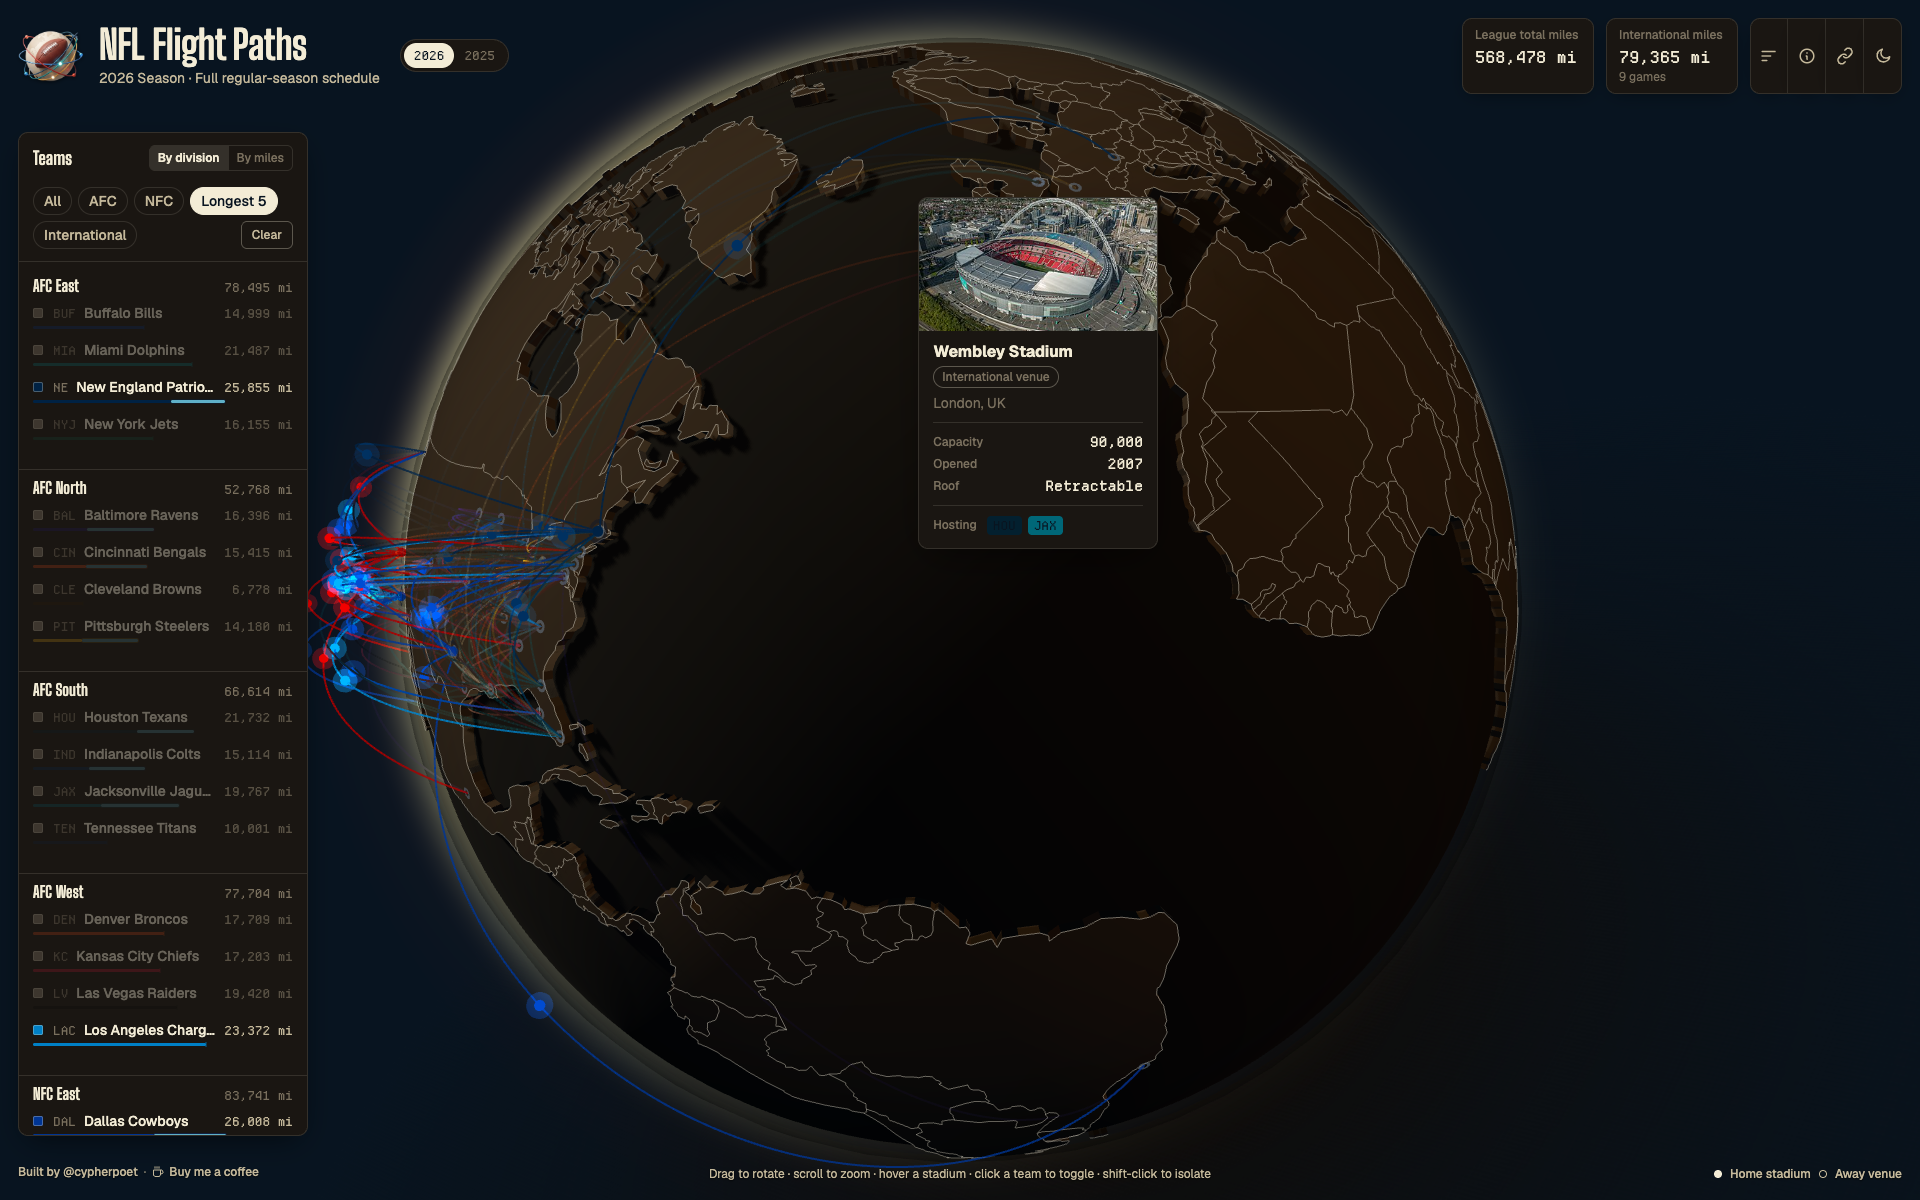
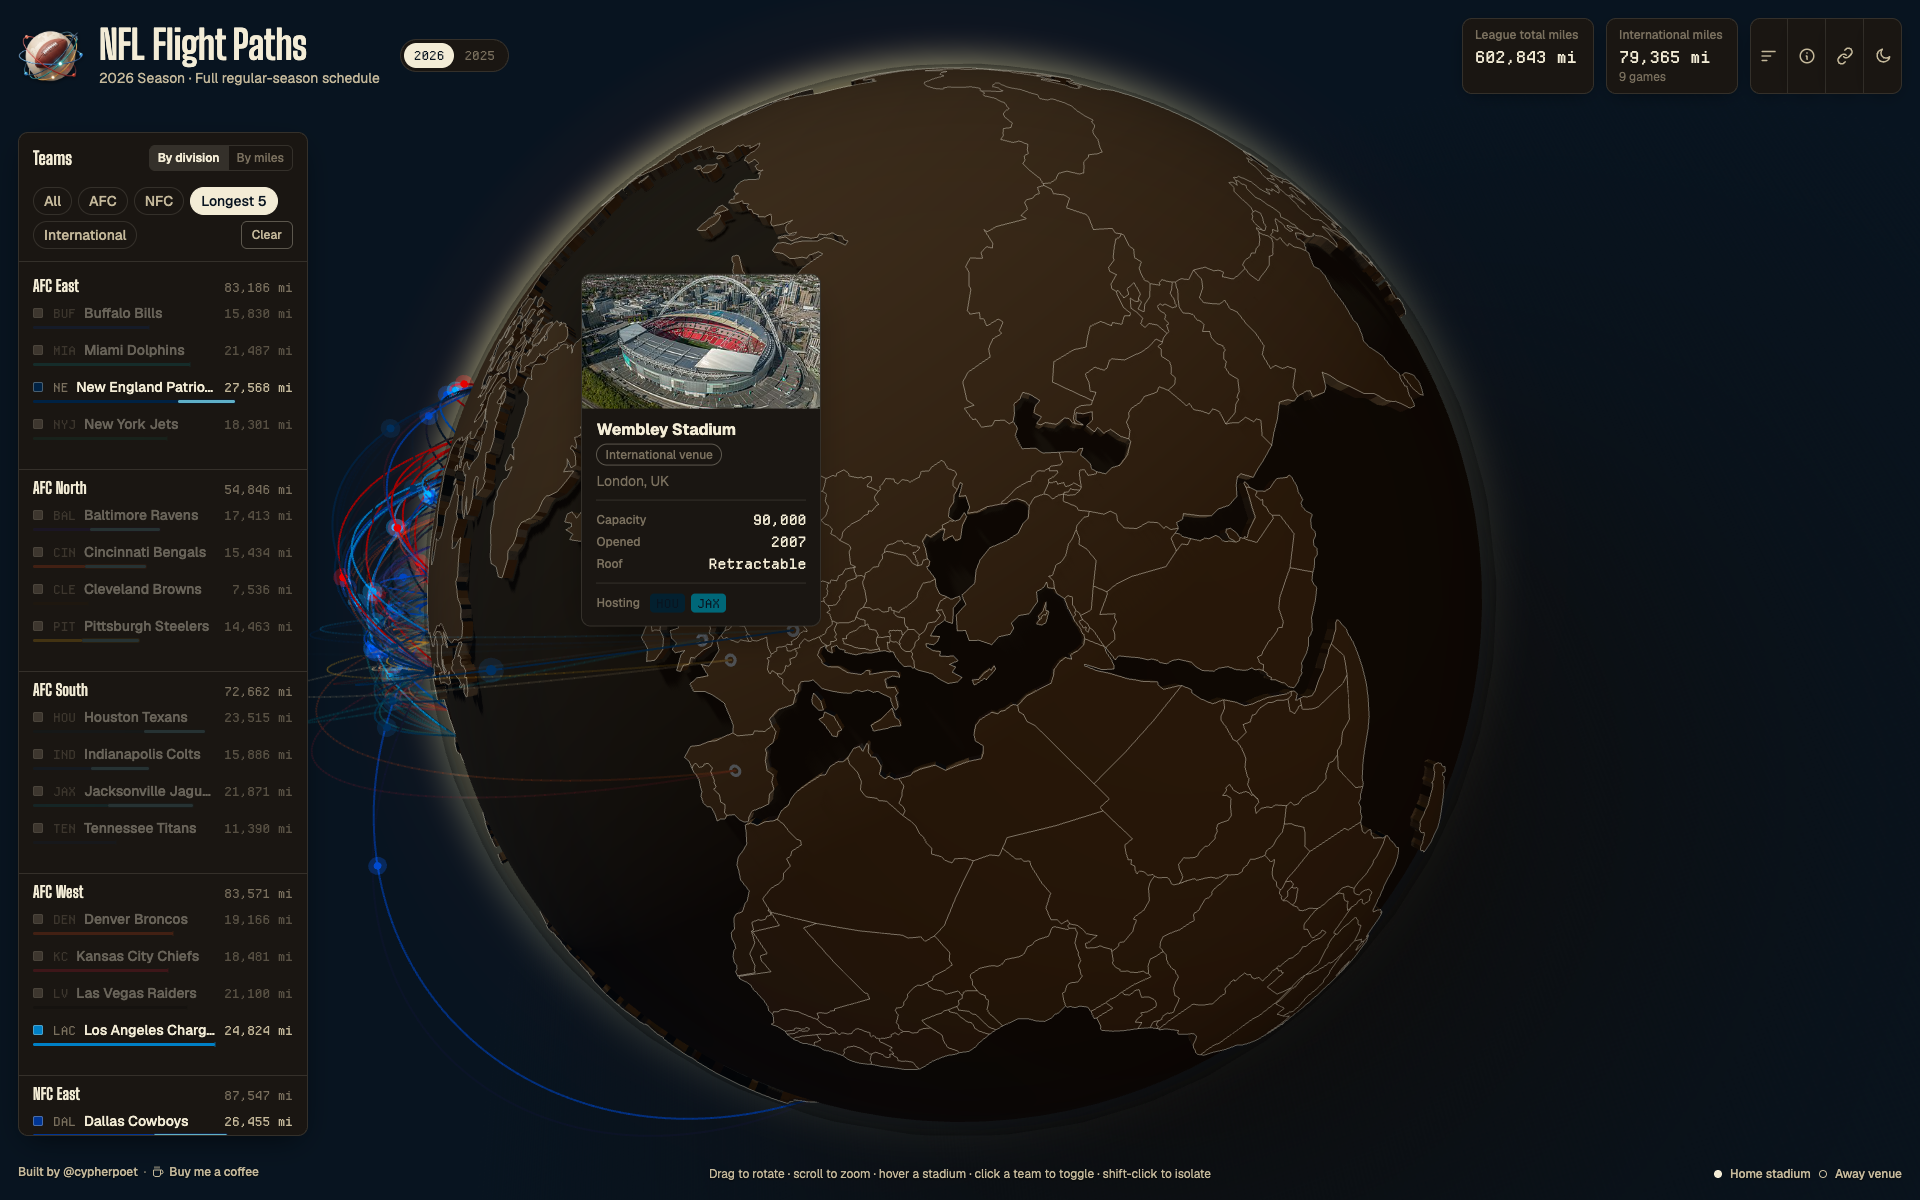
Refresh media + OG image for hub-and-spoke totals
All six committed shots re-captured at the new per-team mileage numbers
(league total now ~602,843 mi after the hub-and-spoke fix in #29). OG
image re-derived from the new dark hero.

README's methodology-modal blurb updated to name the model -- "hub-and-
spoke" with the consecutive-road-week exception -- so the README copy
tracks what the modal now actually says.

Captured at 1920x1200 via playwright-cli; presentational-sync still green.

diff --git a/README.md b/README.md
@@ -31,7 +31,7 @@ A small interactive Three.js scene that plots **every NFL road trip of the 2025 
 - **2025 ↔ 2026 toggle.** Switch seasons from the header.
 - **Live mileage tally.** League-wide total + sum of selected teams in the header.
 - **Per-team mileage breakdown.** A button in the header opens a modal of all 32 teams as contrail bars with a plane icon at the tip, ordered by miles flown.
-- **Methodology modal.** A small "how mileage is calculated" panel explains the chronological-walk model behind the totals.
+- **Methodology modal.** A small "how mileage is calculated" panel explains the hub-and-spoke travel model behind the totals — including the rule for when consecutive road weeks stay on the road instead of returning home.
 
 ## A Look Around
 
